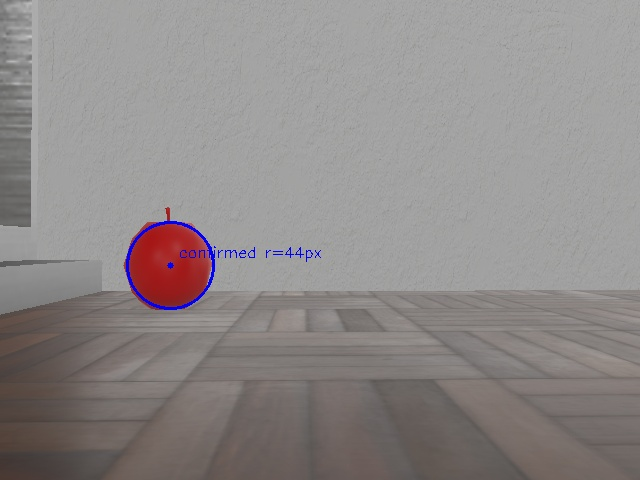
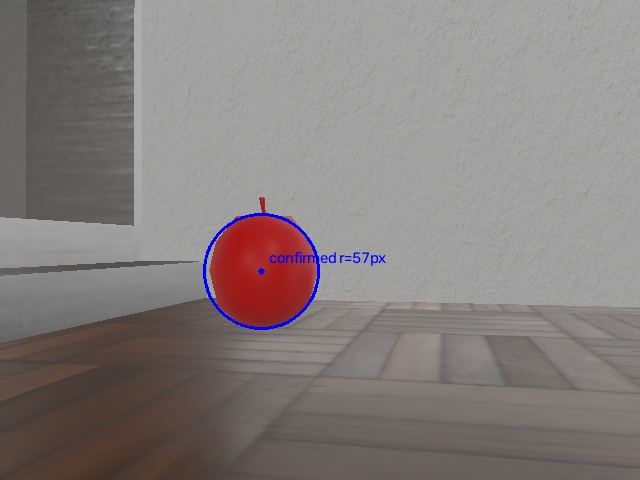
localization: guard scan correction and preserve compass heading

diff --git a/grid_nav/motion_control.py b/grid_nav/motion_control.py
@@ -81,6 +81,25 @@ class MotionController:
         self._last_scan_time = None
         self._last_scan_received = None
         self._cached_obstacles = (np.empty((0, 2)), np.empty((0, 2)))
+        self._virtual_obstacles = []
+
+    def remember_obstacle(self, x, y, radius=0.15):
+        """헛바퀴로 확인한 LiDAR 아래 장애물도 국소 궤적에서 피한다. GT 미사용."""
+        if not np.isfinite([x, y, radius]).all() or radius <= 0:
+            raise ValueError("invalid obstacle")
+        if not any(math.hypot(x - a, y - b) < radius / 2 for a, b, _ in self._virtual_obstacles):
+            self._virtual_obstacles.append((x, y, radius))
+
+    def _remembered_points(self, pose):
+        points = []
+        for x, y, radius in self._virtual_obstacles:
+            if math.hypot(x - pose[0], y - pose[1]) < LIDAR_MAX_RANGE:
+                # 원 내부도 채워서 시작 pose/궤적이 원 안에 들어가 안전하다고 오판하지 않는다.
+                xx, yy = np.meshgrid(np.arange(-radius, radius + .025, .025),
+                                     np.arange(-radius, radius + .025, .025))
+                keep = xx ** 2 + yy ** 2 <= radius ** 2
+                points.append(np.column_stack((x + xx[keep], y + yy[keep])))
+        return np.vstack(points) if points else np.empty((0, 2))
 
     def set_timing(self, control_dt, scan_period=0.1):
         """초 단위 실제 제어/센서 주기를 지정한다. command 시그니처는 유지한다.
@@ -112,6 +131,32 @@ class MotionController:
         wl, wr = to_wheel_speeds(v, w)
         self.v_cmd = WHEEL_RADIUS * (wl + wr) / 2.0
         self.w_cmd = WHEEL_RADIUS * (wr - wl) / WHEEL_SEPARATION
+
+    def guard_command(self, v, w, ranges, angles):
+        """DWA 밖의 명령도 짧은 주행 궤적과 정지거리 검사. 후방 장애물도 포함."""
+        ranges, angles = np.asarray(ranges, float), np.asarray(angles, float)
+        if (ranges.ndim != 1 or ranges.shape != angles.shape or ranges.size == 0
+                or not np.isfinite(angles).all() or not np.isfinite([v, w]).all()):
+            return 0.0, 0.0
+        valid = (np.isfinite(ranges) & (ranges > 0)) | np.isposinf(ranges)
+        if valid.mean() < 0.9:
+            return 0.0, 0.0
+        finite = np.isfinite(ranges) & (ranges > 0) & (ranges < LIDAR_MAX_RANGE)
+        if not finite.any():
+            return float(v), float(w)
+        points = np.column_stack((ranges[finite] * np.cos(angles[finite]),
+                                  ranges[finite] * np.sin(angles[finite])))
+        horizon = self.params.control_dt + self.scan_period + abs(v) / self.params.a_v
+        ts = np.linspace(0, horizon, 20)
+        if abs(w) < 1e-6:
+            centers = np.column_stack((v * ts, np.zeros_like(ts)))
+        else:
+            centers = np.column_stack((v / w * np.sin(w * ts), v / w * (1 - np.cos(w * ts))))
+        distance = np.linalg.norm(points[:, None, :] - centers[None, :, :], axis=2)
+        if distance.min() < self.params.robot_radius + 0.02:
+            self.emergency_stops += 1
+            return 0.0, 0.0
+        return float(v), float(w)
 
     def _reset_static_evidence(self):
         """점유 log-odds 외에 위치가 일정 시간 유지됐는지도 별도로 기록한다."""
@@ -218,6 +263,7 @@ class MotionController:
             self.emergency_stops += 1
             return 0.0, 0.0
         obstacles, dynamic = self._obstacles(pose, ranges, angles)
+        obstacles = np.vstack((obstacles, self._remembered_points(pose)))
         if (self._scan_timestamp is not None and self._last_scan_received is not None
                 and self._elapsed - self._last_scan_received > max(3 * self.scan_period, 0.3)):
             self.v_cmd = self.w_cmd = 0.0

diff --git a/tests/test_two_apple_mission.py b/tests/test_two_apple_mission.py
@@ -1,0 +1,81 @@
+import sys
+from pathlib import Path
+import unittest
+import numpy as np
+
+sys.path.insert(0, str(Path(__file__).resolve().parents[1] / "grid_nav"))
+from webots_adapter import MissionVisits, ProgressWatchdog, TARGET_COUNT
+from motion_control import MotionController
+from dwa import dwa_control, DWAParams, simulate_trajectories
+
+
+class MissionTests(unittest.TestCase):
+    def test_two_distinct_confirmed_visits_required(self):
+        m = MissionVisits()
+        targets = [(1., 0.), (4., 0.)]
+        self.assertEqual(TARGET_COUNT, 2)
+        self.assertEqual(m.select(targets, (0., 0., 0.), 0), 0)
+        self.assertFalse(m.finish(.3, False))
+        self.assertFalse(m.finish(float('nan'), True))
+        self.assertFalse(m.finish(.7, True))
+        self.assertTrue(m.finish(.3, True))
+        self.assertFalse(m.complete)
+        targets[0] = (1.2, .1)  # detector refines location, identity must not change
+        self.assertEqual(m.select(targets, (0., 0., 0.), 1), 1)
+        self.assertTrue(m.finish(.3, True))
+        self.assertTrue(m.complete)
+        self.assertIsNone(m.select(targets, (0., 0., 0.), 2))
+
+    def test_failure_is_not_a_visit_and_can_retry(self):
+        m = MissionVisits()
+        m.select([(1., 0.)], (0., 0., 0.), 0)
+        m.defer(0)
+        self.assertEqual(len(m.completed), 0)
+        self.assertIsNone(m.select([(1., 0.)], (0., 0., 0.), 1))
+        self.assertEqual(m.select([(1., 0.)], (0., 0., 0.), 21), 0)
+
+    def test_one_apple_cannot_be_counted_twice(self):
+        m = MissionVisits()
+        m.select([(1., 0.)], (0., 0., 0.), 0)
+        m.finish(.3, True)
+        self.assertIsNone(m.select([(1.1, 0.)], (0., 0., 0.), 1))
+        self.assertFalse(m.finish(.3, True))
+        self.assertFalse(m.complete)
+
+    def test_recovery_reverse_checks_rear_obstacle(self):
+        c = MotionController()
+        angles = np.linspace(-np.pi, np.pi, 360, endpoint=False)
+        ranges = np.full(360, np.inf)
+        ranges[0] = .14
+        self.assertEqual(c.guard_command(-.1, 0., ranges, angles), (0., 0.))
+        self.assertEqual(c.guard_command(.1, 0., ranges, angles), (.1, 0.))
+        self.assertEqual(c.guard_command(.1, 0., np.full(360, np.nan), angles), (0., 0.))
+
+    def test_stationary_dwa_is_detected_without_forward_command(self):
+        w = ProgressWatchdog()
+        self.assertFalse(w.update((0., 0., 0.), 0, True))
+        self.assertTrue(w.update((.01, 0., 2.), 16, True))
+        self.assertFalse(w.update((.2, 0., 2.), 17, True))
+        self.assertFalse(w.update((.2, 0., 2.), 40, False))
+        self.assertFalse(w.update((.2, 0., 2.), 41, True))
+
+    def test_low_obstacles_remain_in_local_planner(self):
+        c = MotionController()
+        c.remember_obstacle(.25, 0., .15)
+        c.remember_obstacle(.25, 0., .15)
+        self.assertEqual(len(c._virtual_obstacles), 1)
+        self.assertGreater(len(c._remembered_points((0., 0., 0.))), 0)
+        self.assertEqual(len(c._remembered_points((10., 0., 0.))), 0)
+
+    def test_emergency_candidate_must_not_approach_obstacle(self):
+        params = DWAParams()
+        obstacle = np.array([[.18, 0.]])
+        (v, w), debug = dwa_control((0., 0., 0.), 0., 0., (1., 0.), obstacle,
+                                    params, return_debug=True)
+        if abs(v) > 1e-8:
+            trajectory = simulate_trajectories((0., 0., 0.), np.array([v]), np.array([w]), params)
+            self.assertGreaterEqual(np.linalg.norm(trajectory[0, :, :2] - obstacle, axis=1).min(), .178)
+
+
+if __name__ == '__main__':
+    unittest.main()

diff --git a/grid_nav/dwa.py b/grid_nav/dwa.py
@@ -157,6 +157,16 @@ def dwa_control(pose, v_cur, w_cur, goal_xy, obstacles_xy, p: DWAParams = DWAPar
         # 전부 충돌: 복구 행동 = 장애물에서 가장 멀어지는 궤적 (보통 후진 또는 제자리 회전)
         # 여유 거리 안에 들어왔어도 몸체 충돌이 예측되는 궤적은 복구용으로 쓰지 않는다.
         recoverable = reachable & (physical_clearance >= p.robot_radius + 0.02 + brake)
+        # 여유를 줄이는 비상 후보는 장애물에서 실제로 멀어지는 경우에만 허용한다.
+        # 가까운 벽/사과 쪽으로 더 파고드는 '복구'를 선택하지 않는다.
+        all_obs = obs
+        if dynamic_xy is not None and len(dynamic_xy):
+            all_obs = np.vstack((obs, np.asarray(dynamic_xy).reshape(-1, 2)))
+        if len(all_obs):
+            escape_tree = cKDTree(all_obs)
+            initial, _ = escape_tree.query(np.asarray(pose[:2]))
+            final, _ = escape_tree.query(traj[:, -1, :2])
+            recoverable &= (physical_clearance >= initial - 0.002) & (final > initial + 0.005)
         if recoverable.any():
             best = int(np.argmax(np.where(recoverable, clearance, -np.inf)))
             cmd = (float(V[best]), float(W[best]))
